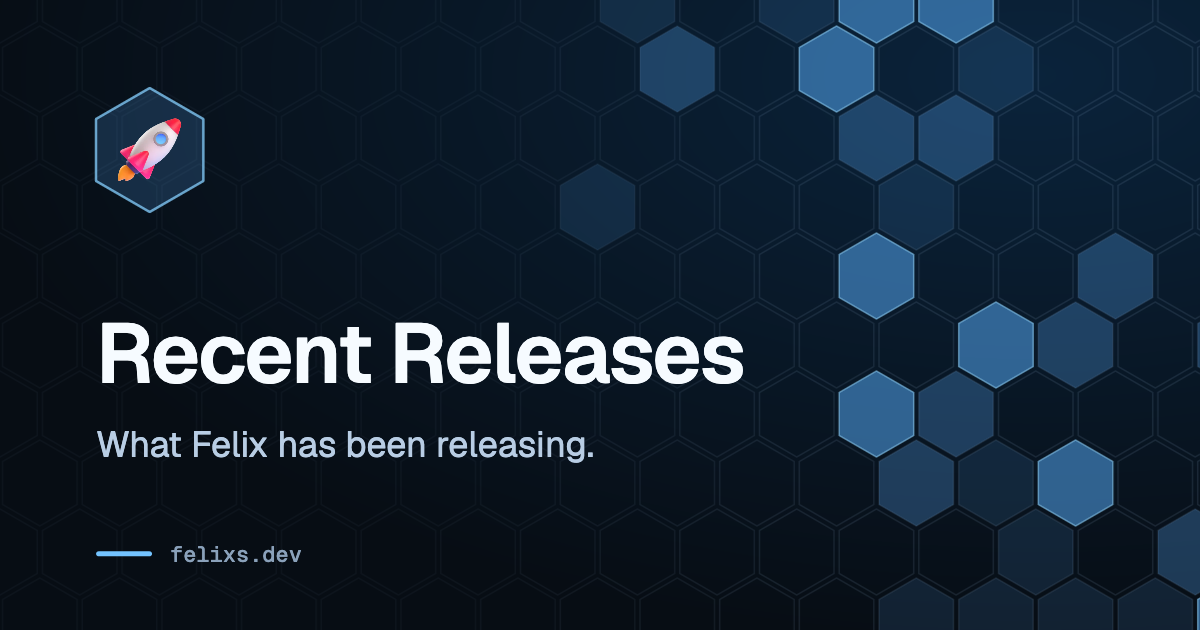
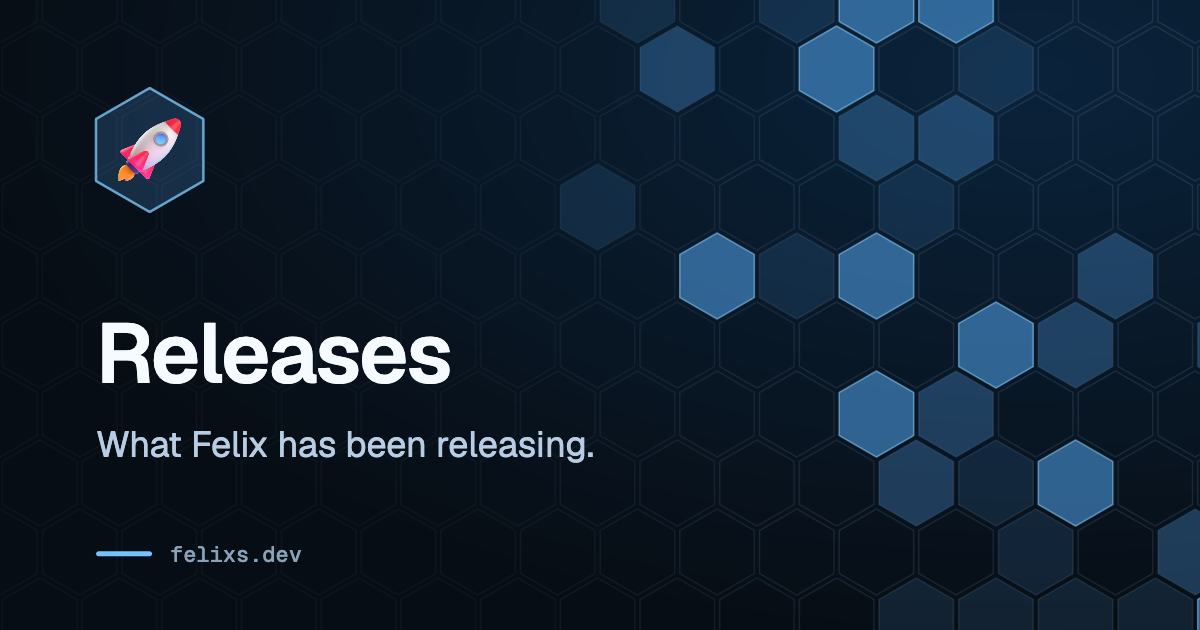
chore: rename

Changed region(s): [[0.1542, 0.3619, 0.7092, 0.6333]]

diff --git a/scripts/update-releases.ts b/scripts/update-releases.ts
@@ -23,5 +23,5 @@ const releases = getReleases(repositories, RELEASES_LIMIT);
 await writeFile(RELEASES_DATA_URL, serializeReleases(releases));
 
 console.info(
-  `[recent-releases] Saved ${releases.length} releases from ${repositories.length} repositories of the \`${GITHUB_ORGANIZATION}\` GitHub organization.`
+  `[releases] Saved ${releases.length} releases from ${repositories.length} repositories of the \`${GITHUB_ORGANIZATION}\` GitHub organization.`
 );

diff --git a/README.md b/README.md
@@ -1,9 +1,9 @@
 # Recent Releases
 
 [![Built with Astro](https://astro.badg.es/v2/built-with-astro/tiny.svg)](https://astro.build)
-[![Netlify Status](https://api.netlify.com/api/v1/badges/b11ce18f-9b7e-4949-9f21-6df0831fe2ac/deploy-status)](https://app.netlify.com/projects/recent-releases/deploys)
+[![Netlify Status](https://api.netlify.com/api/v1/badges/b11ce18f-9b7e-4949-9f21-6df0831fe2ac/deploy-status)](https://app.netlify.com/projects/releases-felix/deploys)
 
-A page for the recent releases of the [trueberryless-org](https://github.com/trueberryless-org) GitHub organization: [recent-releases.netlify.app](https://recent-releases.netlify.app)
+A page for the recent releases of the [trueberryless-org](https://github.com/trueberryless-org) GitHub organization: [releases.felixs.dev](https://releases.felixs.dev)
 
 Please check out the [original version](https://github.com/antfu/releases.antfu.me) by [Anthony Fu](https://github.com/antfu)!
 
@@ -11,13 +11,13 @@ Please check out the [original version](https://github.com/antfu/releases.antfu.
 
 Unlike the original version, which reads the push events of a GitHub user, this page lists the [GitHub releases](https://docs.github.com/en/repositories/releasing-projects-on-github/about-releases) of all public repositories of the organization. This also includes releases created by bots, e.g. by the [Changesets action](https://github.com/changesets/action).
 
-1. The [Update releases workflow](https://github.com/trueberryless-org/recent-releases/blob/main/.github/workflows/update-releases.yaml) runs every 30 minutes, fetches the releases using the GitHub GraphQL API and commits changes to [`src/data/releases.json`](https://github.com/trueberryless-org/recent-releases/blob/main/src/data/releases.json).
+1. The [Update releases workflow](https://github.com/trueberryless-org/releases/blob/main/.github/workflows/update-releases.yaml) runs every 30 minutes, fetches the releases using the GitHub GraphQL API and commits changes to [`src/data/releases.json`](https://github.com/trueberryless-org/releases/blob/main/src/data/releases.json).
 2. Netlify rebuilds the static site for every new commit.
 
 To show a release right away, trigger the workflow from the release workflow of another repository of the organization:
 
 ```sh
-gh api repos/trueberryless-org/recent-releases/dispatches -f event_type=release
+gh api repos/trueberryless-org/releases/dispatches -f event_type=release
 ```
 
 ## Development
@@ -38,4 +38,4 @@ pnpm dev
 
 Licensed under the MIT license, Copyright © trueberryless.
 
-See [LICENSE](https://github.com/trueberryless-org/recent-releases/blob/main/LICENSE) for more information.
+See [LICENSE](https://github.com/trueberryless-org/releases/blob/main/LICENSE) for more information.
